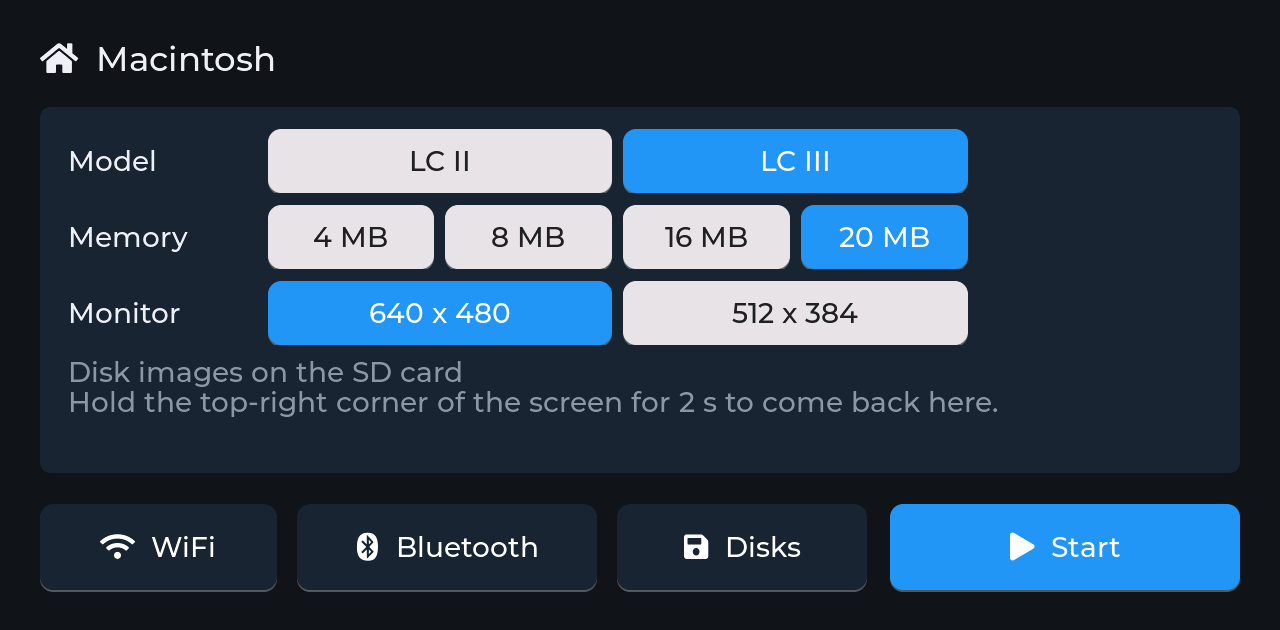
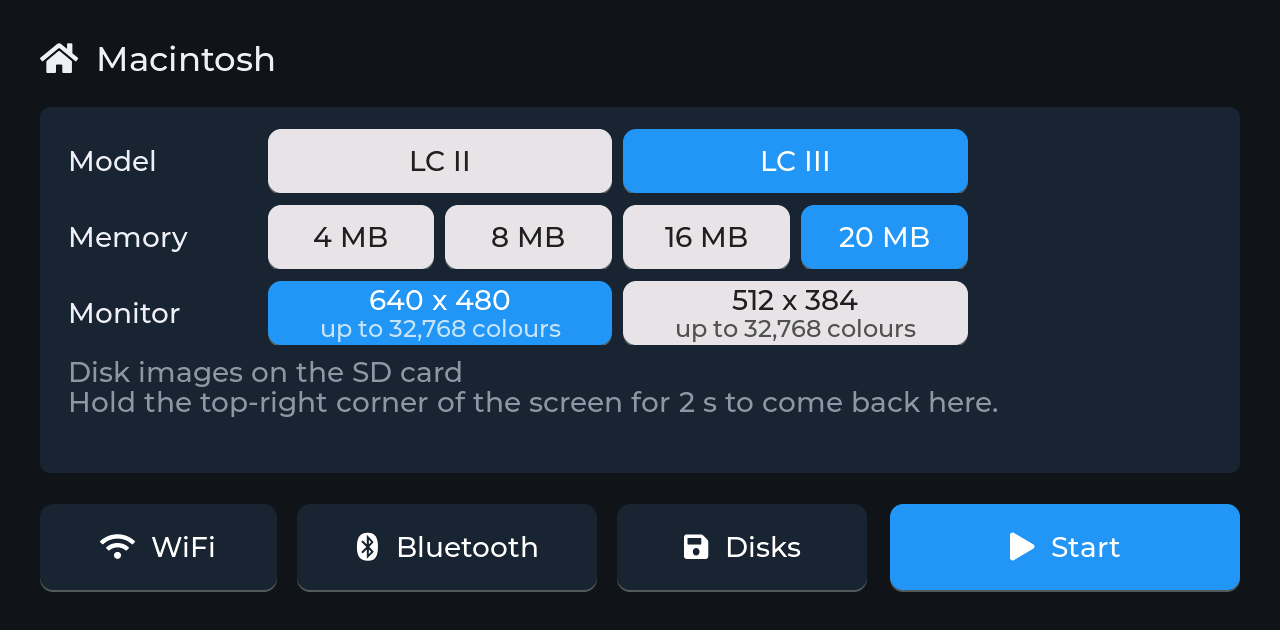
12-inch monitor in colour, and on the LC III at all; colour counts
- LC II: the ROM resets its video PRAM to black and white when it doesn't
  match the monitor: mac_pram_monitor() writes the 12" values
- LC III: the ROM starts Sonora in the 13" mode and waits for a VBL before
  it senses the monitor; the VBL only ran in the monitor's own mode, so
  with the 12" it hung. Any of Sonora's modes runs the VBL now.
- The setup screen's Monitor buttons have a second line with the colours
  each monitor gets: LC II 256 or 32,768, LC III 32,768 at both
- README and setup screenshot to match

Changed region(s): [[0.5312, 0.4524, 0.7188, 0.5429], [0.25, 0.4524, 0.4375, 0.5429]]

diff --git a/components/mac3/egret.c b/components/mac3/egret.c
@@ -126,21 +126,34 @@ void mac_pram_defaults(uint8_t *pram, mac_model_t model)
     pram[0x0F] = 'c';
     pram[0x01] = 0x80;
     pram[0x02] = 0x4F;
-    /* The LC II's video slot PRAM as the ROM writes it, but in 256 colours
-     * ($83; $80 is black and white): the built-in video (board $0029, the
-     * 13" monitor's sense 6 at $5A). The ROM keeps it while the board (and
-     * monitor) match. The LC III's ROM starts in 256 colours by itself.
-     */
-    if (model == MAC_MODEL_LC2) {
-        pram[0x57] = 0x29;
-        pram[0x58] = 0x83;
-        pram[0x59] = 0xA6;
-        pram[0x5A] = 0x06;
-    }
+    mac_pram_monitor(pram, model, MAC_MONITOR_13);
     pram[0x78] = 0x00;                  /* startup disk: none chosen */
     pram[0x79] = 0x01;
     pram[0x7A] = 0xFF;
     pram[0x7B] = 0xFE;
+}
+
+/* The LC II's video slot PRAM, as the ROM writes it for the monitor but in
+ * 256 colours ($83; $80 is black and white): the built-in video (board
+ * $0029, the monitor's sense at $5A: 6 the 13", 2 the 12"). The ROM keeps
+ * it while the board and the monitor match; for another monitor it would
+ * start in black and white: then this one's entry, in colour. The LC III's
+ * ROM starts either monitor in 256 colours by itself.
+ */
+void mac_pram_monitor(uint8_t *pram, mac_model_t model, mac_monitor_t monitor)
+{
+    if (model != MAC_MODEL_LC2) {
+        return;
+    }
+    bool m12 = monitor == MAC_MONITOR_12;
+    uint8_t sense = m12 ? 0x02 : 0x06;
+    if (pram[0x57] != 0x29 || pram[0x5A] != sense) {
+        pram[0x56] = 0x00;
+        pram[0x57] = 0x29;
+        pram[0x58] = 0x83;
+        pram[0x59] = m12 ? 0xA2 : 0xA6;
+        pram[0x5A] = sense;
+    }
 }
 
 static void pram_write(uint8_t address, uint8_t value)

diff --git a/main/main.c b/main/main.c
@@ -305,6 +305,15 @@ enum { CHOICE_MODEL, CHOICE_MEMORY, CHOICE_MONITOR, CHOICES };
 
 static const char *const model_names[] = { "LC II", "LC III", "" };
 static const char *const monitor_names[] = { "640 x 480", "512 x 384", "" };
+/* The colours each monitor gets: the LC II's 512 KB of VRAM holds 16 bits a
+ * pixel at 512 x 384, 8 at 640 x 480; the LC III's 1 MB 16 at both
+ */
+static const char *const monitor_names_lc2[] = {
+    "640 x 480\nup to 256 colours", "512 x 384\nup to 32,768 colours", "",
+};
+static const char *const monitor_names_lc3[] = {
+    "640 x 480\nup to 32,768 colours", "512 x 384\nup to 32,768 colours", "",
+};
 
 static int model_get(void)
 {
@@ -359,11 +368,14 @@ static const emu_choice_t choices[CHOICES] = {
     { "Monitor", monitor_names, monitor_get, monitor_set, false },
 };
 
-/* The Memory row's buttons follow the model */
+/* The Memory and Monitor rows' buttons follow the model */
 static const char *const *choice_names(int i)
 {
     if (i == CHOICE_MEMORY) {
         return settings.model == MAC_MODEL_LC3 ? ram_names_lc3 : ram_names_lc2;
+    }
+    if (i == CHOICE_MONITOR) {
+        return settings.model == MAC_MODEL_LC3 ? monitor_names_lc3 : monitor_names_lc2;
     }
     return NULL;
 }

diff --git a/components/mac3/video.c b/components/mac3/video.c
@@ -119,9 +119,18 @@ static int sonora_mode_id(void)
     return mac.monitor == MAC_MONITOR_12 ? 0x02 : 0x06;
 }
 
+/* Any of Sonora's modes runs the video timing, and with it the vertical
+ * blanking interrupt (as MAME's: the ROM starts in the 13" mode, $86,
+ * whatever the monitor, and waits for one before it senses the monitor)
+ */
 bool sonora_video_on(void)
 {
-    return (ar.mode & 0x1F) == sonora_mode_id();
+    switch (ar.mode & 0x1F) {
+    case 0x01: case 0x02: case 0x06: case 0x09: case 0x0B:
+        return true;
+    default:
+        return false;
+    }
 }
 
 uint8_t sonora_vctrl_read(uint32_t address)
@@ -209,7 +218,7 @@ void video_render_line(int y, uint16_t *dst)
     video_screen_size(&w, &h);
     int code = depth_code();
     if (y < 0 || y >= h || mac.vram == NULL || code > 4 ||
-        (ar.sonora && ((ar.mode & 0x80) || !sonora_video_on()))) {
+        (ar.sonora && ((ar.mode & 0x80) || (ar.mode & 0x1F) != sonora_mode_id()))) {
         memset(dst, 0, w * sizeof(uint16_t));
         return;
     }

diff --git a/components/mac3/include/mac.h b/components/mac3/include/mac.h
@@ -30,8 +30,8 @@ typedef enum {
 } mac_model_t;
 
 typedef enum {
-    MAC_MONITOR_13,         /* 13" RGB: 640 x 480 (LC II up to 256 colours, LC III thousands) */
-    MAC_MONITOR_12,         /* 12" RGB: 512 x 384, up to thousands */
+    MAC_MONITOR_13,         /* 13" RGB: 640 x 480 (LC II up to 256 colours, LC III 32,768) */
+    MAC_MONITOR_12,         /* 12" RGB: 512 x 384, up to 32,768 colours */
 } mac_monitor_t;
 
 #define MAC_SCREEN_MAX_WIDTH    640
@@ -85,6 +85,11 @@ typedef struct {
  * it for parameter RAM that isn't valid)
  */
 void mac_pram_defaults(uint8_t *pram, mac_model_t model);
+
+/* The video's parameter RAM for this monitor: kept if it is for it (its
+ * depth too), else the monitor's in 256 colours (mac_init does it)
+ */
+void mac_pram_monitor(uint8_t *pram, mac_model_t model, mac_monitor_t monitor);
 
 /* Name of a known ROM ("Macintosh LC II", "Macintosh LC III") and its model; NULL if the image
  * isn't a ROM this emulator knows how to patch

diff --git a/components/mac3/mac_internal.h b/components/mac3/mac_internal.h
@@ -260,7 +260,7 @@ uint8_t ariel_read(uint32_t address);
 void ariel_write(uint32_t address, uint8_t value);
 uint8_t sonora_vctrl_read(uint32_t address);
 void sonora_vctrl_write(uint32_t address, uint8_t value);
-bool sonora_video_on(void);         /* a mode set: vertical blanking interrupts */
+bool sonora_video_on(void);         /* a mode runs: vertical blanking interrupts */
 void video_mode_changed(void);
 void video_screen_size(int *w, int *h);
 int video_screen_depth(void);

diff --git a/components/mac3/mac.c b/components/mac3/mac.c
@@ -387,6 +387,7 @@ bool mac_init(const mac_config_t *config)
         mac_pram_defaults(mac.pram, mac.model);
         mac.pram_dirty = true;
     }
+    mac_pram_monitor(mac.pram, mac.model, config->monitor);
     mac.pram_changed = config->pram_changed;
     mac.disk_ejected = config->disk_ejected;
 

diff --git a/README.md b/README.md
@@ -59,13 +59,16 @@ which also holds the 68030 core.
   thing; and a 68882 FPU, as if the optional chip were fitted
 - **Macintosh LC II**: 4, 6, 8 or 10 MB (4 MB on the board and a SIMM pair);
   built-in video at 640×480 in black and white up to 256 colours, or
-  512×384 up to thousands; Egret for the ADB keyboard and mouse, the clock
+  512×384 up to thousands (32,768); Egret for the ADB keyboard and mouse, the clock
   and parameter RAM; the V8's Apple Sound Chip
 - **Macintosh LC III**: 4, 8, 16 or 20 MB; Sonora's full 32-bit memory map
-  and 1 MB of video RAM (up to thousands of colours at 640×480 too); Egret;
-  Sonora's stereo sound
+  and 1 MB of video RAM (up to thousands of colours at 640×480 too, as a
+  real LC III with its VRAM SIMM; with only the 512 KB on its board it
+  has 256 there); Egret; Sonora's stereo sound
 - A 13-inch (640×480) or 12-inch (512×384) monitor, chosen on the setup
-  screen; 256 colours by default
+  screen, whose buttons say how many colours each one gets on the model
+  (LC II: up to 256 or 32,768; LC III: up to 32,768 on both); 256 colours
+  by default on both
 - **Always in real time** (sound, clock, mouse): the 68030 runs as fast as
   the board keeps up, at most the model's own speed. On the Tab5 that's
   about 92% of an LC II, and 27% of an LC III (see Limitations); the web
@@ -176,8 +179,8 @@ Tab5 is the only target: a build for any other stops with a message.
    normal); then comes its desktop in 256 colours.
 
 <p align="center">
-  <img src="docs/images/tab5-setup.png" width="70%" alt="The Tab5's setup screen: model LC II or LC III, the LC III's memory 4, 8, 16 or 20 MB, monitor 640 x 480 or 512 x 384; WiFi, Bluetooth, Disks and Start buttons">
-  <br><sub>The setup screen on the Tab5, with the LC III and 20 MB chosen (its status lines left out)</sub>
+  <img src="docs/images/tab5-setup.png" width="70%" alt="The Tab5's setup screen: model LC II or LC III, the LC III's memory 4, 8, 16 or 20 MB, monitor 640 x 480 or 512 x 384, both up to 32,768 colours; WiFi, Bluetooth, Disks and Start buttons">
+  <br><sub>The setup screen on the Tab5, with the LC III, 20 MB and the 13-inch monitor chosen; under each monitor, its colours on that model (the status lines left out)</sub>
 </p>
 
 ## Using it
@@ -293,8 +296,10 @@ options and the lessons learned along the way.
   time in 256 colours at 640×480; the setup screen and the pointer work
   (LC II with 8 MB, LC III with 8 and 20 MB). Not tried by
   hand yet: sound on the speaker, a Bluetooth keyboard and mouse, the Tab5
-  Keyboard; not tried yet: the 12-inch monitor, other colour depths
-  (thousands on the LC III).
+  Keyboard. The 12-inch monitor and thousands of colours are checked in
+  the desktop build only: both machines start in 256 colours on either
+  monitor; the LC III takes thousands on both, the LC II at 512×384 (and
+  turns them down at 640×480, as on a real LC II).
 - RAM sizes: the LC III takes 4, 8, 16 or 20 MB, the sizes its ROM finds
   with the RAM in one piece (12 MB isn't one of them).
 - The CPU's pace for each model is an estimate, not yet calibrated against

diff --git a/CLAUDE.md b/CLAUDE.md
@@ -62,7 +62,10 @@ runtime's profiler), `R <model 0|1> <ram MB> [monitor 0|1]` restart as the
 LC II (4/6/8/10 MB) or the LC III (4/8/16/20 MB) with the 13" or 12"
 monitor, `n` interrupt switch. Touches on the Tab5: the picture is 960x720
 at x=160; setup screen Start `t 1065 637`, Model `t 440|795 251`, the
-corner long-press `t 1270 10 2500`. A menu: `P 20 10 1`, `P 60 28 1`,
+corner long-press `t 1270 10 2500`. The Memory and Monitor rows follow the
+model (`choice_names()`); the Monitor buttons' second line is the colours
+each monitor gets: LC II up to 256 at 640x480, 32,768 at 512x384; LC III
+32,768 at both. A menu: `P 20 10 1`, `P 60 28 1`,
 `P 62 29 0` (a second apart) chooses About This Computer.
 
 ## Layout
@@ -167,6 +170,21 @@ $40800000 (ROMBase), in 24-bit mode at $800000.
   has one V8 record (VIA ID bits as on the LC, which MAME gives every V8).
   Mac OS 7.6.1's About This Computer says "Macintosh" for all three (LC,
   LC II, LC III), so it doesn't show.
+- **The 12" monitor: black and white on the LC II, a hang on the LC III.**
+  The LC II's ROM keeps its video PRAM ($56-$5A: board $0029, mode $58,
+  $80 = 1 bit ... $84 = 16 bits, sense $5A) only while it matches the
+  monitor, else resets the mode to $80: `mac_pram_monitor()` (`egret.c`,
+  from every `mac_init()`) writes the 12" values ($A2, sense 2) when they
+  don't. The LC III's ROM starts Sonora in the 13" mode ($86) whatever the
+  monitor and waits for a VBL before it senses it: the VBL only ran in the
+  monitor's own mode, so with the 12" it waited at $4080448C forever.
+  `sonora_video_on()` is now true in any of Sonora's modes ($01 $02 $06
+  $09 $0B); the picture is still drawn only in the monitor's own.
+- **The setup screen's colour counts are what the ROMs accept**: PRAM $58
+  set to $84 (16 bits) is kept by the LC II at 512x384 only (reset to $80
+  at 640x480: 512 KB of VRAM), by the LC III at both (1 MB, as MAME's
+  Sonora; a real LC III needs its VRAM SIMM for that at 640x480). The
+  Monitor buttons say so per model (`choice_names()`, two lines).
 
 ## Testing
 
@@ -194,7 +212,12 @@ $40800000 (ROMBase), in 24-bit mode at $800000.
   of PSRAM (3.1 MB with the setup screen open). The setup screen's rows,
   the pointer (`P`), About This Computer (8,192K on the LC II) checked.
   Not checked by ear or hand: sound, Bluetooth, the Tab5 Keyboard; not
-  tried: the 12" monitor, other depths (thousands on the LC III).
+  tried on the board: the 12" monitor, other depths.
+- Checked on the host (2026-10-18): both models start in 256 colours on
+  either monitor (13" -> 12" -> 13"); thousands draw right on the LC III at
+  both sizes and on the LC II at 512x384.
+- Checked on the Tab5 (2026-10-18): the setup screen's two-line Monitor
+  buttons for the LC II and the LC III (`docs/images/tab5-setup.png`).
 
 ## Open items
 
